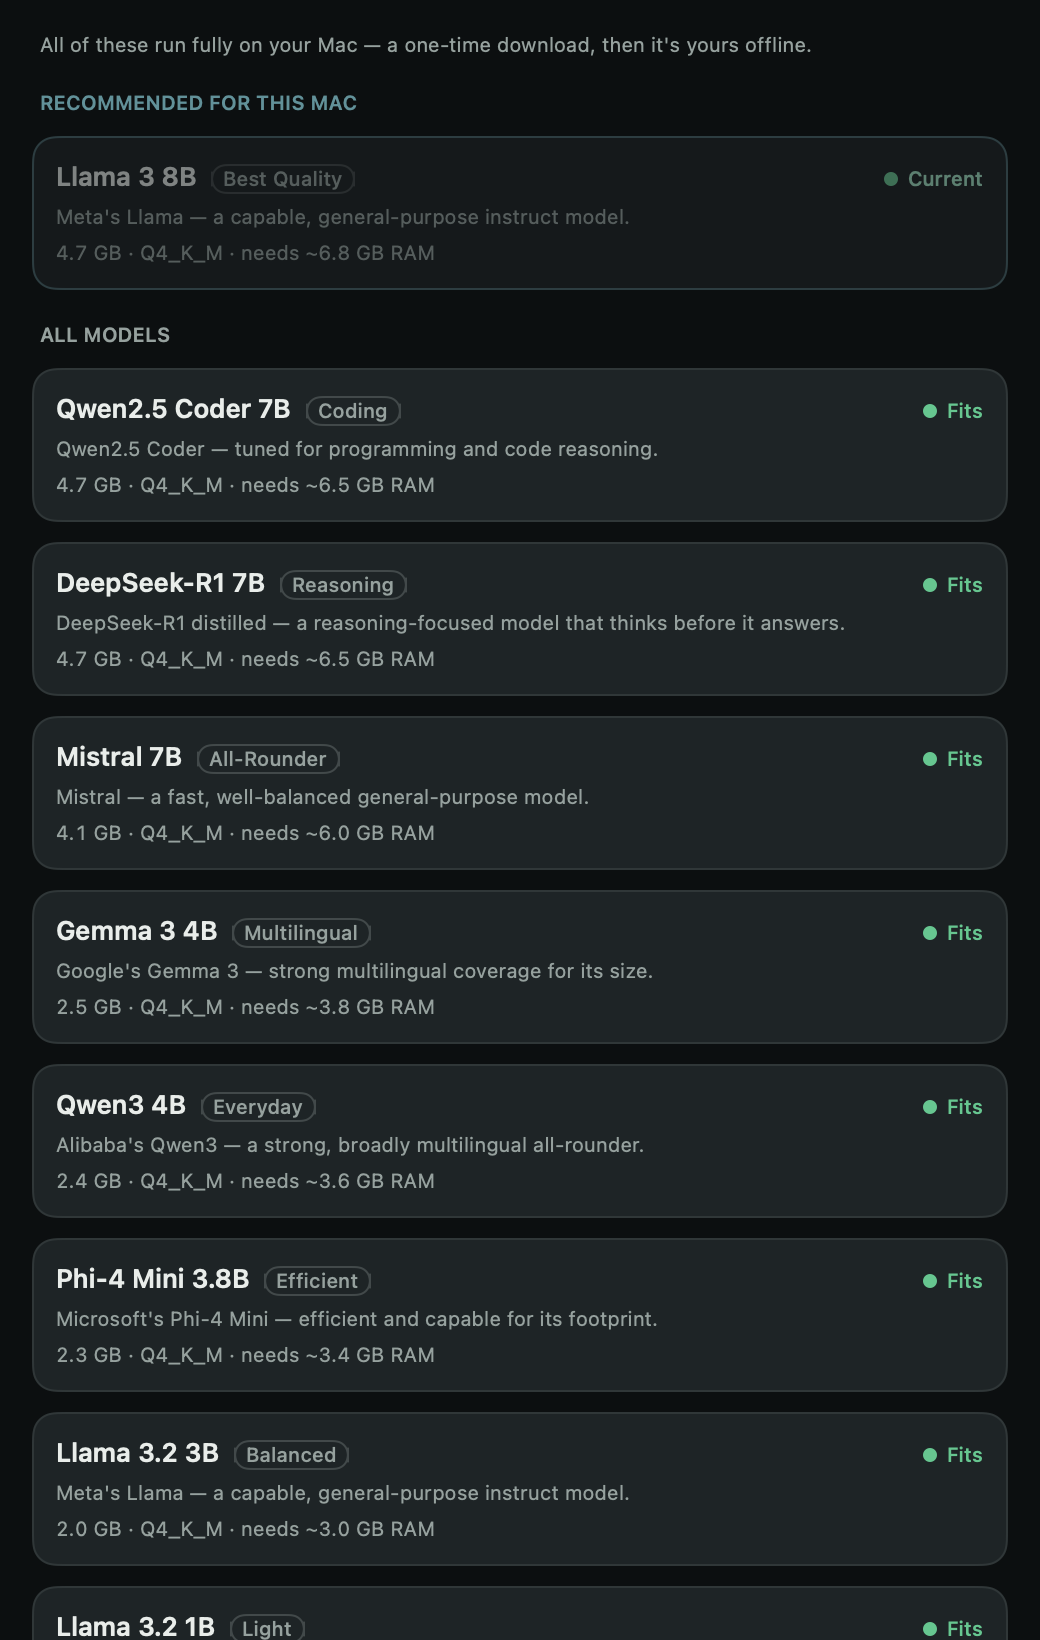
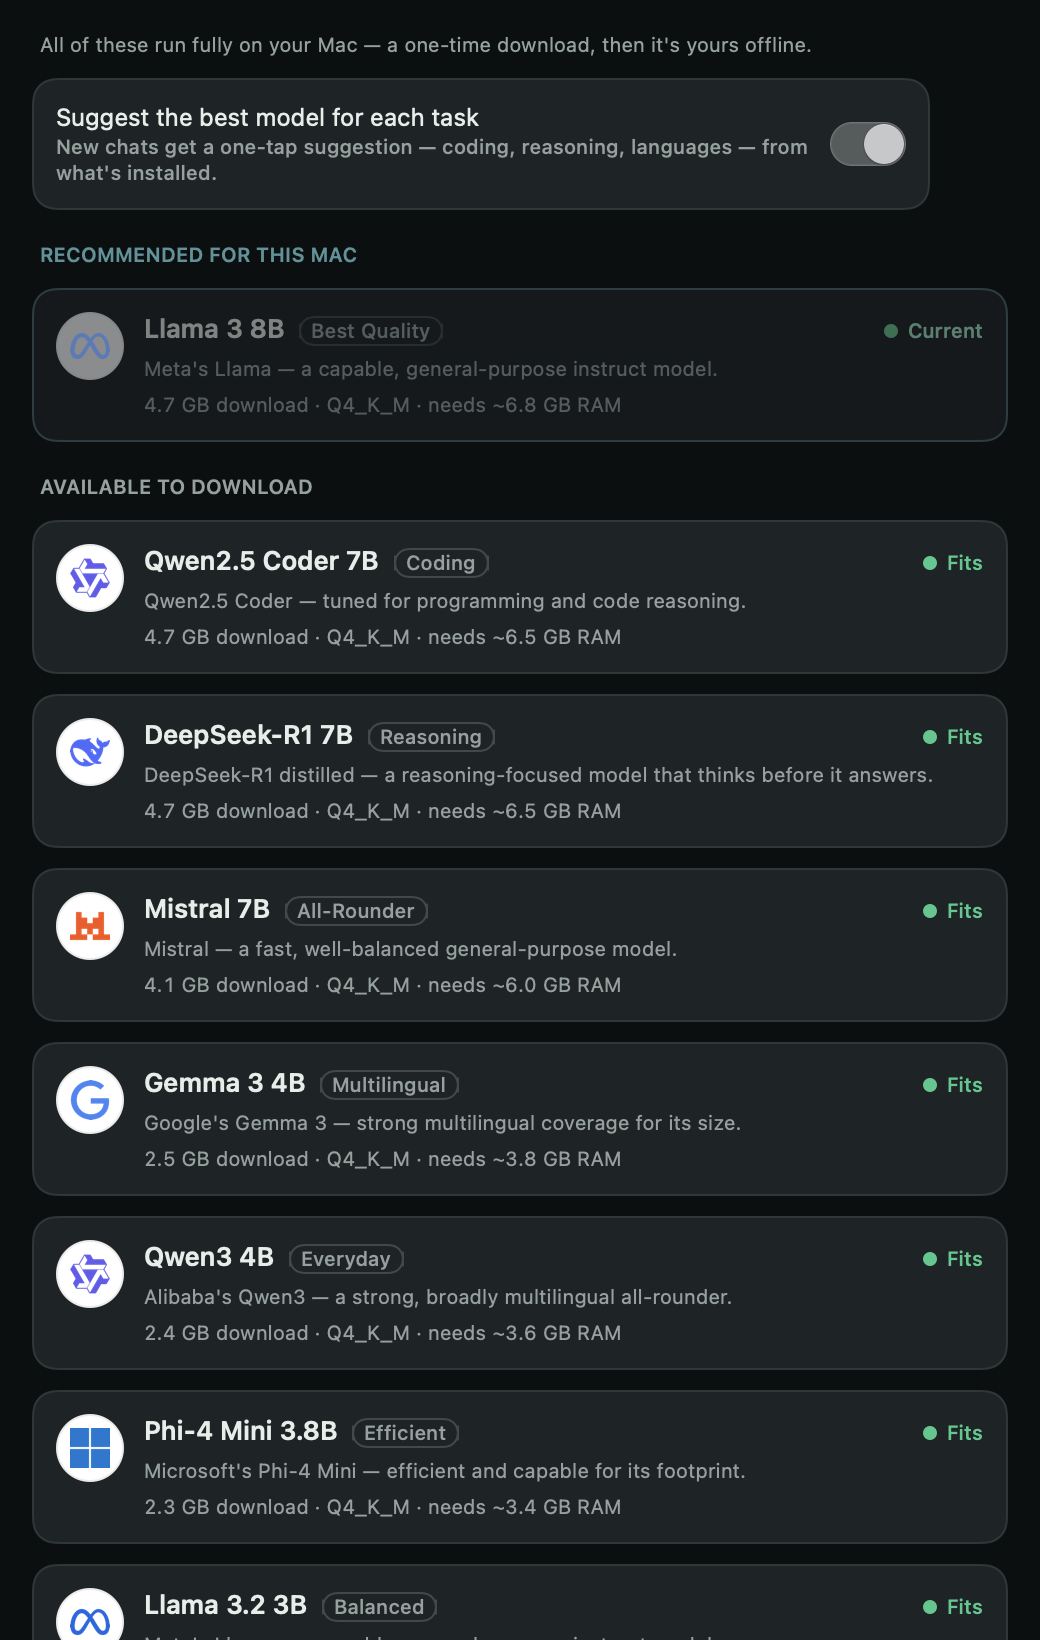
fix(deploy): the website workflow was dead on arrival — Pages never enabled
Every "Deploy website" run since the redesign failed in ~10s at
configure-pages with "Not Found": GitHub Pages was never enabled in repo
settings, so the redesigned site never shipped anywhere — quenderin.org
(Cloudflare Pages, a separate dashboard-side deployment) kept serving the
pre-redesign build. configure-pages now self-enables (enablement: true).

Also: sw.js cache bumped to quenderin-v2 (network-first, so this is just
hygiene for the moment the new deploy lands), and the hero screenshot
re-rendered at 460pt — same content, dead vertical space gone (owner
feedback), index.html dimensions updated.

diff --git a/apple/QuenderinKit/Tests/QuenderinKitTests/WebsiteAssetRenderTests.swift b/apple/QuenderinKit/Tests/QuenderinKitTests/WebsiteAssetRenderTests.swift
@@ -52,7 +52,7 @@ final class WebsiteAssetRenderTests: XCTestCase {
             That's the core — everything else builds on these three.
             """),
         ])
-        try render(ChatView(model: chat).frame(width: 720, height: 580), to: out, name: "chat")
+        try render(ChatView(model: chat).frame(width: 720, height: 460), to: out, name: "chat")
 
         // 2. Welcome — the first-launch page (elf, three value props).
         try render(WelcomeView(onContinue: {}).frame(width: 520, height: 720), to: out, name: "welcome")

diff --git a/website/index.html b/website/index.html
@@ -187,7 +187,7 @@
         <div class="hero-visual reveal">
           <figure class="app-window">
             <div class="app-window-bar" aria-hidden="true"><span class="wdot"></span><span class="wdot"></span><span class="wdot"></span><span class="app-window-title">Llama 3.2 1B &middot; on-device &middot; private</span></div>
-            <img src="assets/app/chat.png" width="720" height="580" alt="The actual Quenderin app answering a Python question fully on-device, with syntax-highlighted code" decoding="async" fetchpriority="high" />
+            <img src="assets/app/chat.png" width="720" height="460" alt="The actual Quenderin app answering a Python question fully on-device, with syntax-highlighted code" decoding="async" fetchpriority="high" />
             <figcaption class="app-window-caption" data-i18n="hero.shot.caption">A real screenshot &mdash; this exact conversation ran with the network off.</figcaption>
           </figure>
         </div>

diff --git a/website/sw.js b/website/sw.js
@@ -2,7 +2,7 @@
  * Network-first with a same-origin cache fallback: online visitors always get fresh content,
  * and once you've loaded the site it keeps working with no connection — fitting for an
  * offline-first product. Same-origin only, so the "nothing loads from a third party" promise holds. */
-var CACHE = "quenderin-v1";
+var CACHE = "quenderin-v2";
 
 self.addEventListener("install", function () {
   self.skipWaiting();